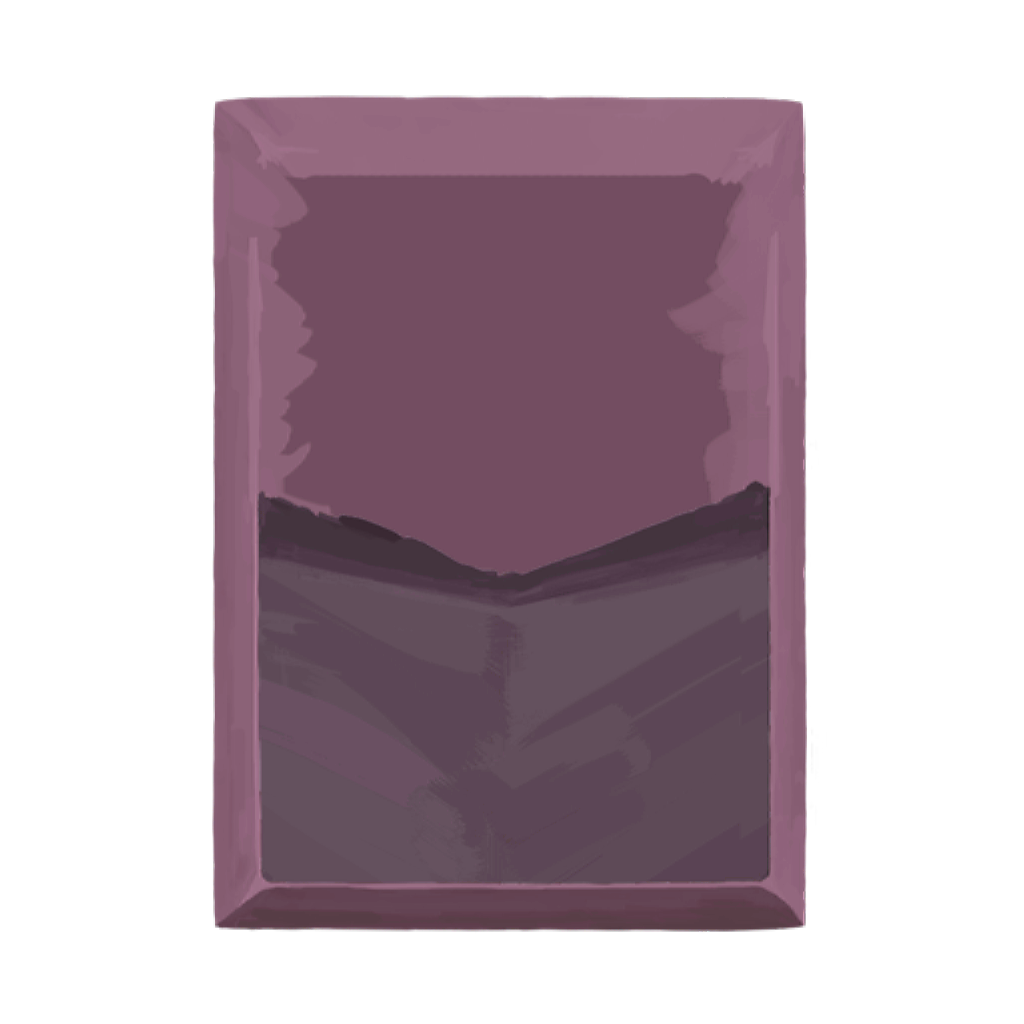
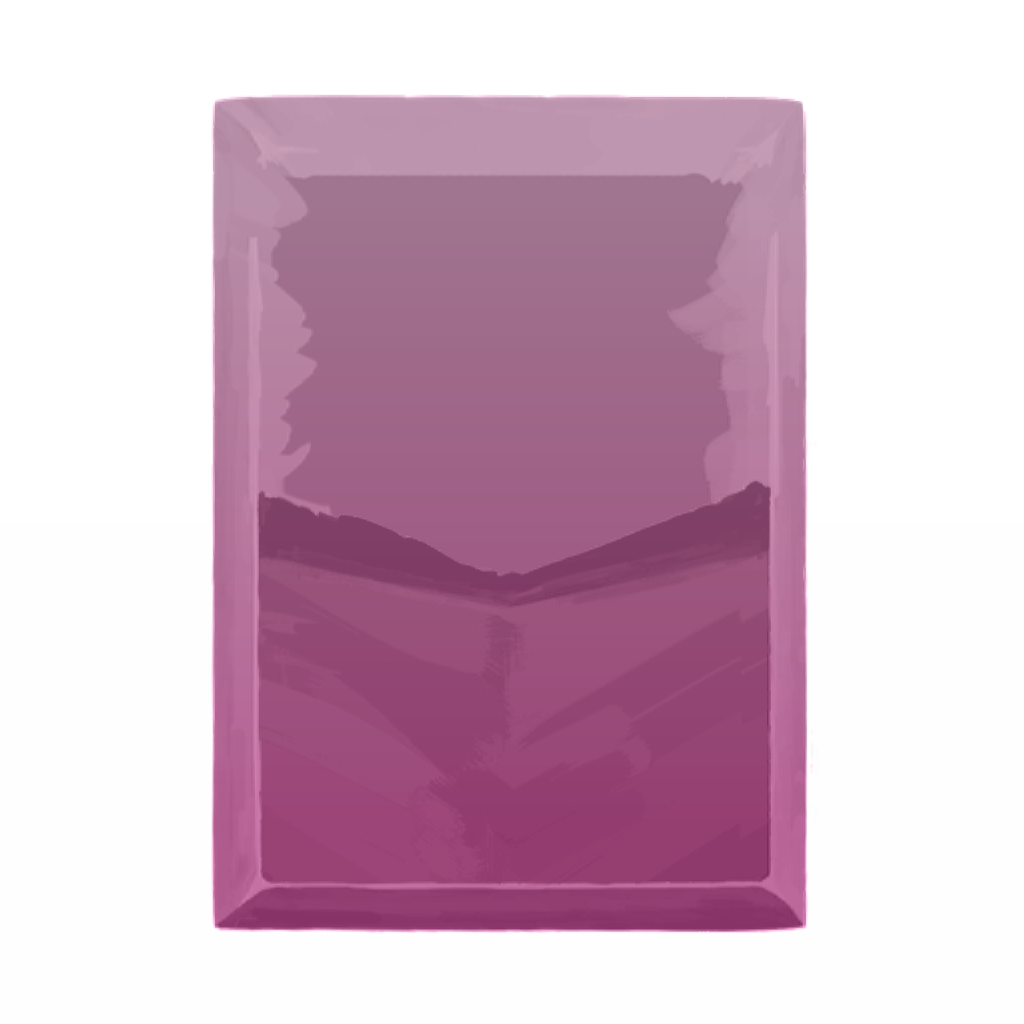
change cardbacks

diff --git a/src/main/java/omnismadeline/cards/BaseEnvironmentCard.java b/src/main/java/omnismadeline/cards/BaseEnvironmentCard.java
@@ -9,13 +9,20 @@ import omnismadeline.enums.CustomTags;
 import omnismadeline.patches.GAM_fieldPatch;
 import omnismadeline.util.CardStats;
 
+import static omnismadeline.MadelineMod.characterPath;
+
 public abstract class BaseEnvironmentCard extends BaseCard {
     private static final UIStrings uiStrings;
     private static final String NOT_MOVED_MESSAGE;
     public boolean isAboutToMove = false;
 
     public BaseEnvironmentCard(String ID, CardStats info) {
-        super(ID, info); // Pass the required information to the BaseCard constructor.
+        super(ID, info);
+        final String cardType =
+                info.cardType == CardType.ATTACK ? "_attack" :
+                        info.cardType == CardType.SKILL ? "_skill" :
+                                info.cardType == CardType.POWER ? "_power" : "";
+        setBackgroundTexture(characterPath("cardback/bg"+ cardType +"_env.png"), characterPath("cardback/bg"+ cardType + "_env_p.png"));
         tags.add(CustomTags.ENVIRONMENT);
     }
 

diff --git a/src/main/java/omnismadeline/cards/BaseDashCard.java b/src/main/java/omnismadeline/cards/BaseDashCard.java
@@ -15,6 +15,8 @@ import omnismadeline.util.CardStats;
 
 import java.util.Objects;
 
+import static omnismadeline.MadelineMod.characterPath;
+
 public abstract class BaseDashCard extends BaseCard {
     private static final UIStrings uiStrings;
     private static final String CANT_DASH_MESSAGE;
@@ -22,6 +24,11 @@ public abstract class BaseDashCard extends BaseCard {
 
     public BaseDashCard(String ID, CardStats info) {
         super(ID, info);
+        final String cardType =
+                info.cardType == CardType.ATTACK ? "_attack" :
+                        info.cardType == CardType.SKILL ? "_skill" :
+                                info.cardType == CardType.POWER ? "_power" : "";
+        setBackgroundTexture(characterPath("cardback/bg"+ cardType +"_dash.png"), characterPath("cardback/bg"+ cardType + "_dash_p.png"));
         this.tags.add(CustomTags.DASH);
     }
 

diff --git a/src/main/java/omnismadeline/cards/BaseJumpCard.java b/src/main/java/omnismadeline/cards/BaseJumpCard.java
@@ -14,6 +14,8 @@ import omnismadeline.util.CardStats;
 
 import java.util.Objects;
 
+import static omnismadeline.MadelineMod.characterPath;
+
 public abstract class BaseJumpCard extends BaseCard {
     private static final UIStrings uiStrings;
     private static final String CANT_JUMP_MESSAGE;
@@ -21,6 +23,11 @@ public abstract class BaseJumpCard extends BaseCard {
 
     public BaseJumpCard(String ID, CardStats info) {
         super(ID, info);
+        final String cardType =
+                info.cardType == CardType.ATTACK ? "_attack" :
+                        info.cardType == CardType.SKILL ? "_skill" :
+                                info.cardType == CardType.POWER ? "_power" : "";
+        setBackgroundTexture(characterPath("cardback/bg"+ cardType +"_jump.png"), characterPath("cardback/bg"+ cardType + "_jump_p.png"));
         this.tags.add(CustomTags.JUMP);
     }
 
